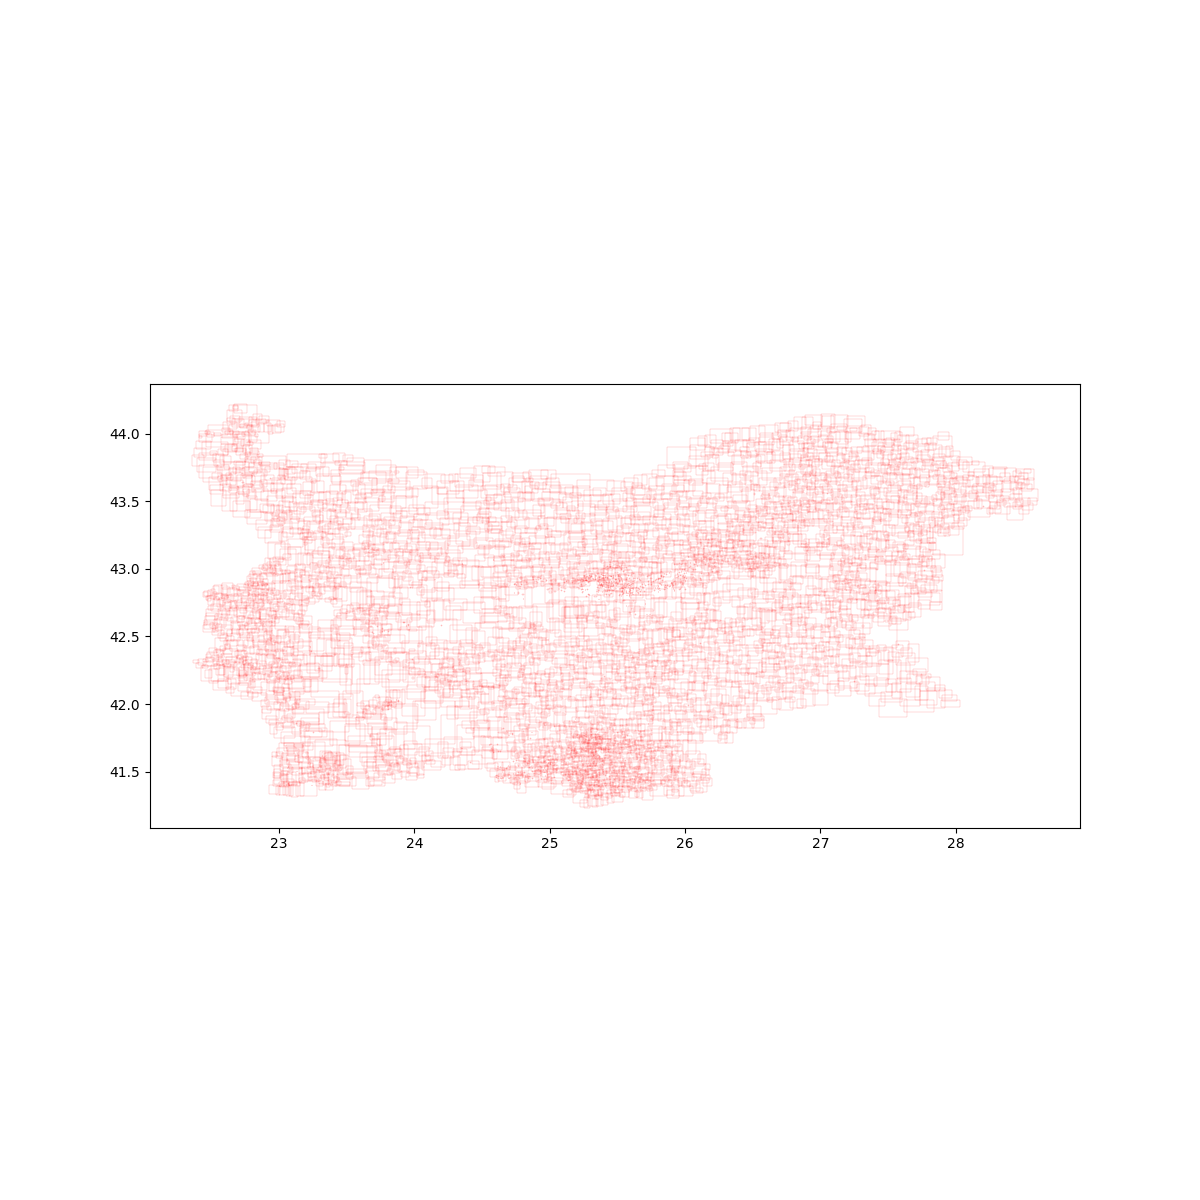
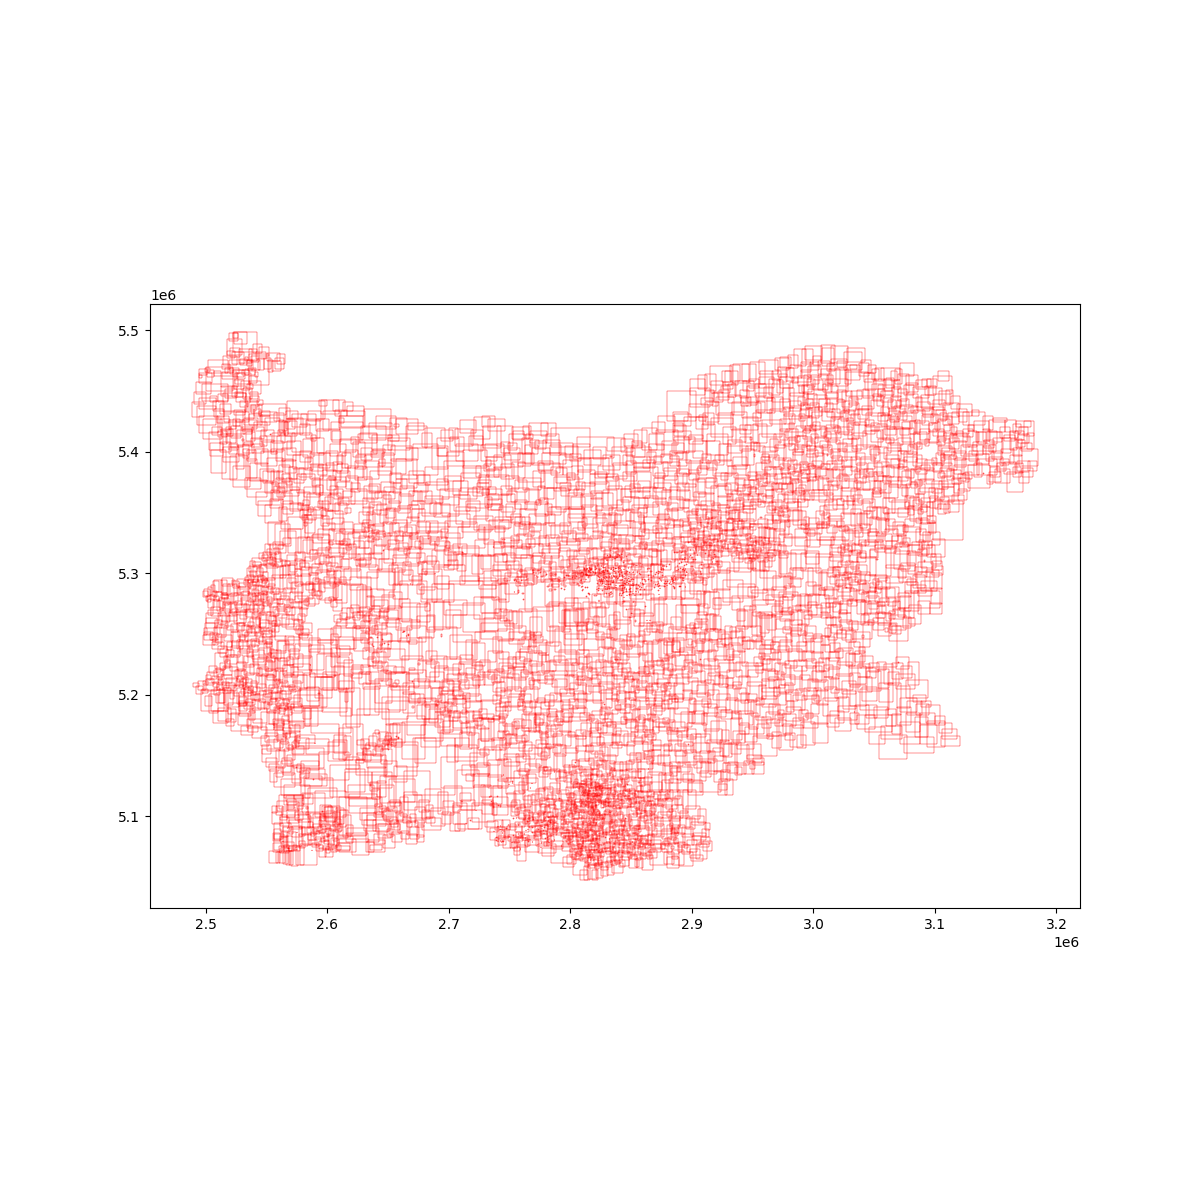
udpate images and set CRS

Changed region(s): [[0.1542, 0.2775, 0.8633, 0.74], [0.0925, 0.4625, 0.1233, 0.4933], [0.0925, 0.3392, 0.1233, 0.37]]

diff --git a/bg_ekatte_lib/init_pipeline.py b/bg_ekatte_lib/init_pipeline.py
@@ -37,11 +37,11 @@ def get_ekatte_bbox(base_shape_path: str) -> List:
     gdf = gpd.read_file(base_shape_path)
     gdf.rename(columns={'EKATTE_1': 'ekatte'}, inplace=True)
 
-    gdf.plot(figsize=(12, 12), facecolor="none", edgecolor='red', lw=0.1)
+    gdf.plot(figsize=(12, 12), facecolor="none", edgecolor='red', lw=0.3)
     plt.savefig('../data/processed/v20230131/srs_ekatte.png')
 
     gdf_wgs84 = gdf.to_crs("EPSG:4326")
-    gdf_wgs84.plot(figsize=(12, 12), facecolor="none", edgecolor='red', lw=0.1)
+    gdf_wgs84.plot(figsize=(12, 12), facecolor="none", edgecolor='red', lw=0.3)
     plt.savefig('../data/processed/v20230131/wgs84_ekatte.png')
 
     gdf_wgs84 = pd.concat([gdf_wgs84, gdf_wgs84.bounds], axis=1)
@@ -49,8 +49,6 @@ def get_ekatte_bbox(base_shape_path: str) -> List:
 
     gdf_wgs84.rename(columns={'geometry': 'srs_geometry', 'ext_geometry': 'geometry'}, inplace=True)
 
-    gdf_wgs84.plot(figsize=(12, 12), facecolor="none", edgecolor='red', lw=0.1)
-    plt.savefig('../data/processed/v20230131/wgs84_ekatte_ext.png')
 
     del gdf_wgs84["srs_geometry"]
     del gdf_wgs84["minx"]
@@ -58,7 +56,13 @@ def get_ekatte_bbox(base_shape_path: str) -> List:
     del gdf_wgs84["maxx"]
     del gdf_wgs84["maxy"]
 
+    gdf_wgs84.set_crs("EPSG:4326", inplace=True)
     gdf_wgs84.to_feather("../data/processed/v20230131/ekatte_geo.feather")
+
+    gdf_3857 = gdf_wgs84.to_crs("EPSG:3857")
+    gdf_3857.plot(figsize=(12, 12), facecolor="none", edgecolor='red', lw=0.3)
+    plt.savefig('../data/processed/v20230131/wgs84_ekatte_ext.png')
+
     return []
 
 
